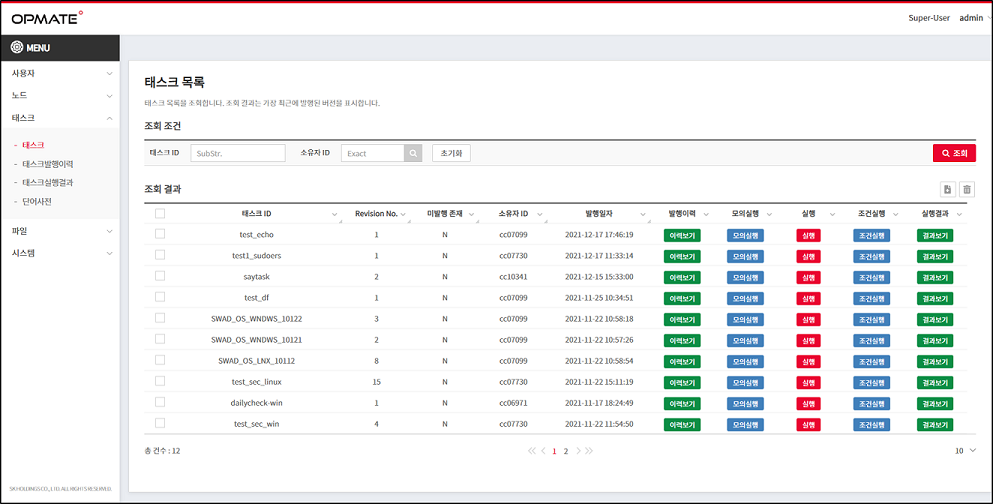
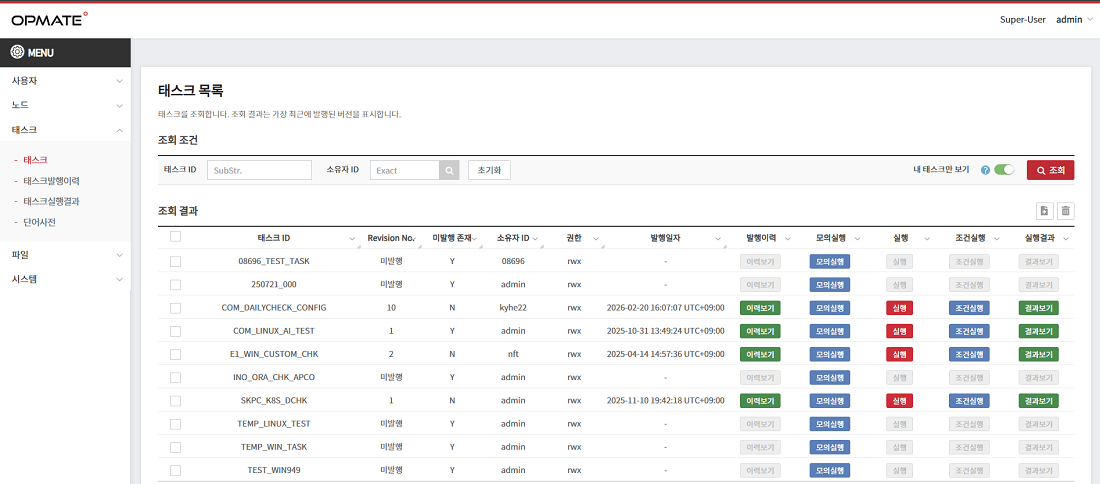
26.04.15 매뉴얼 현행화

diff --git a/content/v2/Tutorial_WC/Tutorial6.md b/content/v2/Tutorial_WC/Tutorial6.md
@@ -1,0 +1,84 @@
+---
+title: 6. 파일 허브
+description: 6. 파일 허브
+menu:
+  v2:
+    parent: v2-tutorial-wc
+weight: 14
+#firstpage: true
+#lastpage: true
+---
+
+---
+
+## 파일허브
+>파일허브(Filehub)는 파일 송수신을 위한 임시 보관소입니다.  
+Master 서버로 업로드된 모든 파일은 지정된 파일허브 디렉터리에 저장됩니다.  
+잔여 보존기한은 <B>최대 13일</B>입니다. 이후에는 모든 파일이 삭제됩니다.  
+
+![WC_filehub](images/filehub-1.png)  
+
+>파일허브(Filehub)는 일반유저(Normal-User)도 조회가 가능합니다.  
+생성, 변경 등은 소유자 혹은 Super-User만 가능합니다.  
+
+![WC_filehub](images/filehub-2.png)  
+> 파일을 직접 업로드하거나 내려받을 수 있습니다.  
+
+![WC_filehub](images/filehub-3.png)  
+> 파일허브의 파일목록에서 디렉토리 구조와 크기,일시, 잔여보존일 등을 확인할 수 있습니다.  
+
+### 스크립트 예약어
+- - -
+태스크 스크립트 작성 시 예약어로 스크립트 단에서 파일 관련 기능을 활용할 수 있습니다.  
+이를 통해 스크립트에서 파일허브를 일종의 원격 디렉터리로 활용할 수 있습니다.
+
+`FILE_PUT`,  `FILE_GET`,  `FILE_LS` 총 3가지 예약어가 있습니다
+
+```bash
+FILE_LS  : 파일 조회
+Usage    : @OPM_ATTR.FILE_LS@ <master:/master-directory-path> [glob]
+Example  : @OPM_ATTR.FILE_LS@ master:/myfilehub/textfile/ "*.txt"
+```
+```bash
+FILE_PUT : 파일허브로 파일 업로드
+Usage    : @OPM_ATTR.FILE_PUT@ [–-overwrite] <master:/filehub-id/master-file-path> <local-file-path>
+Example  : @OPM_ATTR.FILE_PUT@ --overwrite master:/myfilehub/tomcat.tar.gz /tmp/tomcat.tar.gz
+```
+```bash
+FILE_GET : 파일허브에서 파일 다운로드
+Usage    : @OPM_ATTR.FILE_GET@ [–-overwrite] <master:/filehub-id/master-file-path> <local-file-path>
+Example  : @OPM_ATTR.FILE_GET@ --overwrite master:/myfilehub/hostname/passwd /etc/passwd
+```
+
+> 스크립트 예약어를 사용하려면 반드시 <u><b>스크립트를 실행하는 태스크</b></u>가   
+파일허브 권한을 가지고 있어야 합니다.  
+아래는 파일허브 정보를 통해 권한정보를 조회해볼 수 있습니다.  
+
+![WC_filehub](images/filehub-4.png)  
+
+
+## 파일허브 예제
+```bash
+@echo off
+setlocal
+
+echo step1
+IF NOT EXIST "C:\EDR\test1" (
+	MKDIR "C:\EDR\test1"
+)
+
+echo step2
+# filehub에서 파일 조회
+@OPM_ATTR.FILE_LS@ master:/fh-gas-edr/ "*.exe"
+
+
+echo step3
+# filehub에서 파일 다운로드
+@OPM_ATTR.FILE_GET@ --overwrite master:/fh-gas-edr/FalconSensor_Windows.exe C:\EDR\FalconSensor_Windows.exe
+
+echo step4
+# filehub에서 파일 업로드
+@OPM_ATTR.FILE_PUT@ --overwrite master:/fh-gas-edr/install_step2.bat C:\EDR\install_step2.bat
+
+endlocal
+```

diff --git a/content/v2/Tutorial_WC/Tutorial2.md b/content/v2/Tutorial_WC/Tutorial2.md
@@ -9,32 +9,50 @@ weight: 10
 # lastpage: false
 ---
 
----
+[//]: # (## **계정발급**)
 
-## **계정발급**
-OPMATE 사용을 위해서는 로그인에 필요한 계정 발급이 필요합니다.  
-로그인 화면에서 담당자 정보를 확인하고 담당자에게 신청하여 계정을 발급 받습니다.
+[//]: # (OPMATE 사용을 위해서는 로그인에 필요한 계정 발급이 필요합니다.  )
+
+[//]: # (ServiceFLOW에서 계정발급 요청서를 작성합니다.  )
+
+[//]: # (&#40;BP분들은 담당 정직원분께 ServiceFLOW 접수 요청 부탁드립니다.&#41;)
+
+[//]: # (![WC_execution_dtl]&#40;images/Service.png&#41;)
 
 ## **로그인**
 
 아이디/비밀번호를 입력하고, <kbd class="btn-red">&nbsp;로그인&nbsp;</kbd> 버튼을 클릭합니다.
 
-![WC_login](images/login-1.png)
+![WC_login](images/login-1.PNG)
 
 
 ### **2차인증**
 
-**등록** 
+#### **등록** ####
 
+![WC_login](images/login-2.PNG)
+
+> 인증은 로그인 시 하단에서 <u>2차인증 등록 버튼</u>을 통해 등록할 수 있습니다.  
 본인 소유 모바일 기기에서 **Google OTP** App.을 설치 및 실행하여 등록합니다.
 
-**인증**
+#### **인증** ####
 
-**Google OTP** App. 에 표시되는 인증번호를 아래 화면에 입력(30초마다 변경) 한 후,  
+> **Google OTP** App. 에 표시되는 인증번호를 아래 화면에 입력(30초마다 변경) 한 후,  
 <kbd class="btn-red">&nbsp;인증요청&nbsp;</kbd> 버튼을 클릭합니다.  
 모바일 기기의 시간이 _대한민국 표준시_ 로 설정되어 있어야, 정상적인 인증번호가 발급됩니다.
 
-![WC_login](images/login-2.png)
+>만약 2차인증 창을 실수로 닫은 경우, 혹은 2차인증을 하지 못한 경우에는  
+담당자에게 요청하여 주시면 <u>초기화</u>하여 드립니다.  
+
+
+#### **2차인증 시 사진촬영이 불가한 경우** ####
+
+![WC_login](images/tcs-2.png)  
+
+> 만약 사진 촬영 등이 어려운 Site 근무자의 경우, 구글 Authenticator 앱의 우측 하단 `+` 아이콘 클릭  
+`설정 키 입력` 선택 후 `내 키`에 입력받은 key값을 넣어서 등록합니다.
+`코드명`은 인증 코드 항목을 구분하기 위해 적절하게 네이밍합니다.
+
  
 ## **로그아웃**
 화면 우측 상단의 폴딩 메뉴(사용자ID 표기 우측)를 열고,  

diff --git a/content/v2/Tutorial_WC/Tutorial4.md b/content/v2/Tutorial_WC/Tutorial4.md
@@ -9,14 +9,13 @@ weight: 12
 #lastpage: false
 ---
 
----
-
 ## 태스크 목록
 OPMATE 태스크 목록을 조회/추가/삭제 할 수 있습니다.  
 조회 결과의 Revision No. 는 가장 최근 발행 버전의 결과를 표시합니다.  
-이전 발행 버전의 태스크는 태스크 발행이력 메뉴에서 확인할 수 있습니다.
+이전 발행 버전의 태스크는 태스크 발행이력 메뉴에서 확인할 수 있습니다.  
+우측의 <u>내 태스크만 보기</u> 토글 스위치를 통해 내가 작성한 태스크만 조회할 수 있습니다.
 
-![WC_task_dtl](images/task-lst.png)
+![WC_task_dtl](images/task-lst.PNG) 
 
 ### **조회 조건**
 
@@ -260,4 +259,21 @@ Grid 의 check 박스를 통해 read/write/execute 권한을 부여합니다.
 > <kbd class="btn-red">저장</kbd> : 등록/변경된 내용을 저장  
 > <kbd class="btn-red">폐기</kbd> : 편집 중(발행 이전)인 Revision 폐기  
 > <kbd class="btn-red">발행</kbd> : 편집 중(발행 이전)인 Revision 발행
+
+
+## TCS 인증코드
+![WC_task_noti](images/tcs-1.PNG)
+
+> Task Certification System의 약자로 Task를 작성한 후 실행할 때 인증하는 방식  
+OPMATE Webconsole의 모든 사용자에게 부여되는 것은 아님  
+운영 담당자에게 발급 요청 필요. (메일, 메신저 등)  
+발급이 되면 QR코드를 생성할 수 있는 URL을 전달받음  
+로컬 브라우저에서 https://qr.io 에 접속하여 `text` 선택 후 URL 붙여넣기 하면 QR코드 생성  
+구글 인증 앱을 통해 등록
+이 외에도 Task를 실행할 수 있는 권한(역할, 노드 등)이 부여가 되어야함  
+
+![WC_task_noti](images/tcs-2.png)  
+> 만약 사진 촬영 등이 어려운 Site 근무자의 경우, 구글 Authenticator 앱의 우측 하단 `+` 아이콘 클릭  
+`설정 키 입력` 선택 후 `내 키`에 입력받은 key값을 넣어서 등록합니다.
+`코드명`은 인증 코드 항목을 구분하기 위해 적절하게 네이밍합니다.
  

diff --git a/content/v2/Tutorial_WC/Tutorial8.md b/content/v2/Tutorial_WC/Tutorial8.md
@@ -1,0 +1,44 @@
+---
+title: 8. Role
+description: 8. Role
+menu:
+  v2:
+    parent: v2-tutorial-wc
+weight: 16
+#firstpage: true
+lastpage: true
+---
+
+---
+
+## Role(역할)
+> OPMATE는 Task에 대상 노드들을 지정하고 수행할 수 있는데  
+이를 수행하기 위해서는 Role(역할)이 부여되어야 합니다.  
+일반 유저들은 역할 목록을 조회할 수 있으며  
+Role(역할) 정보를 생성하고 편집하는 것은 슈퍼 유저만 가능합니다.  
+대상 노드들을 수행하기 위해서는 담당자에게 Role(역할) 부여 요청을 해야합니다.  
+
+![WC_role](images/role-1.png)  
+
+> 또한, Role(역할)을 부여할 대상 노드들은 Tag 정보로 그룹핑하여 부여하고 있으며,    
+관리하는 고객사나 대상 목록에서 추가되거나 삭제되어도  
+개별로 관리할 필요가 없어서 용이합니다.  
+Role(역할)은 노드별로 각각 OS계정을 부여할 수 있습니다.  
+사용자 뿐만 아니라 사용자 그룹으로 대상 노드들을 수행할 수 있도록 지정할 수 있습니다.  
+
+### 수행하고자 하는 태스크에 Role(역할)을 부여받은 상태인지 확인하는 방법  
+> `모의실행` 버튼을 통해 확인해볼 수 있습니다.  
+해당 버튼을 클릭하면 나오는 창에서 `실행유형`을 `사용자`로 선택 후  
+실행ID 조회 아이콘을 누릅니다.  
+
+![WC_role](images/role-2.png)  
+
+> `사용자 조회` 팝업 화면에서 본인의 ID를 조회하여 클릭합니다.  
+![WC_role](images/role-3.png)  
+
+> 조회하였을 때 다음과 같이 조회 결과의 권한점검 항목이 `성공`으로 뜨면  
+Role(역할)이 부여된 상태이며    
+`실패`로 뜨면 Role(역할)이 부여되지 않은 상태이므로  
+담당자에게 요청해야합니다.
+
+![WC_role](images/role-4.png)

diff --git a/content/v2/Tutorial_WC/Tutorial7.md b/content/v2/Tutorial_WC/Tutorial7.md
@@ -1,0 +1,33 @@
+---
+title: 7. Tag 모아보기
+description: 7. Tag 모아보기
+menu:
+  v2:
+    parent: v2-tutorial-wc
+weight: 15
+#firstpage: true
+#lastpage: true
+---
+
+---
+
+## Tag 모아보기
+> OPMATE의 노드들은 Tag정보로 관리할 수 있습니다.  
+Tag 기반으로 관리하면 그룹핑하여 수행 대상 서버로 지정할 수 있습니다.  
+추후 노드가 늘어나거나 삭제되어도 Tag 정보로 관리하고 있기 때문에  
+자동으로 관리가 되어 용이합니다.
+
+![WC_dashboard](images/maindashboards.png)  
+
+### CSP Tag와 WorkPortal Tag
+> CSP 태그는 AWS 인스턴스의 메타데이터 태그로 지정할 수 있습니다.  
+콘솔 관리화면에서 <u>Allow tags in instance metadata</u> 옵션을 `허용`으로 지정해야합니다.
+WorkPortal 태그는 기준정보관리 양식에 맞게 작성이 필요합니다.  
+담당자 문의 부탁드립니다.
+
+![WC_dashboard](images/taglst.PNG)  
+
+### Tag 동기화 주기
+> CSP에서 제공하는 Tag 수집은 각 Agent가 <B>10분마다</B> 동기화합니다.  
+WorkPortal의 전체 Tag 동기화는 <B>매일 마스터에서 2회</B> 진행합니다.  
+

diff --git a/content/v2/Tutorial_WC/Tutorial1.md b/content/v2/Tutorial_WC/Tutorial1.md
@@ -9,8 +9,6 @@ firstpage: true
 # lastpage: false
 ---
 
----
-
 **OPMATE WebConsole**은 OPMATE Web Console 은 OPMATE 에 대한 Web 기반 인터페이스 입니다.
 GUI 형태의 인터페이스 임을 고려하여 OPMATE eyes 라는 이름을 사용하고 있습니다.
 
@@ -21,3 +19,9 @@ Super-User 권한의 관리자를 통해 OPMATE 의 계정을 발급받으면,
 Chrome 브라우저로 OPMATE Web Console 을 사용할 수 있습니다.
 
 ※ 본 문서에서는 OPMATE Web Console 화면에 대한 사용법을 중점적으로 다루고 있습니다.
+
+[//]: # (> 웹콘솔 사용예제 퀵토리얼)
+
+[//]: # (> > 동영상 첨부  )
+
+![WC_dashboard](images/maindashboards.png)
